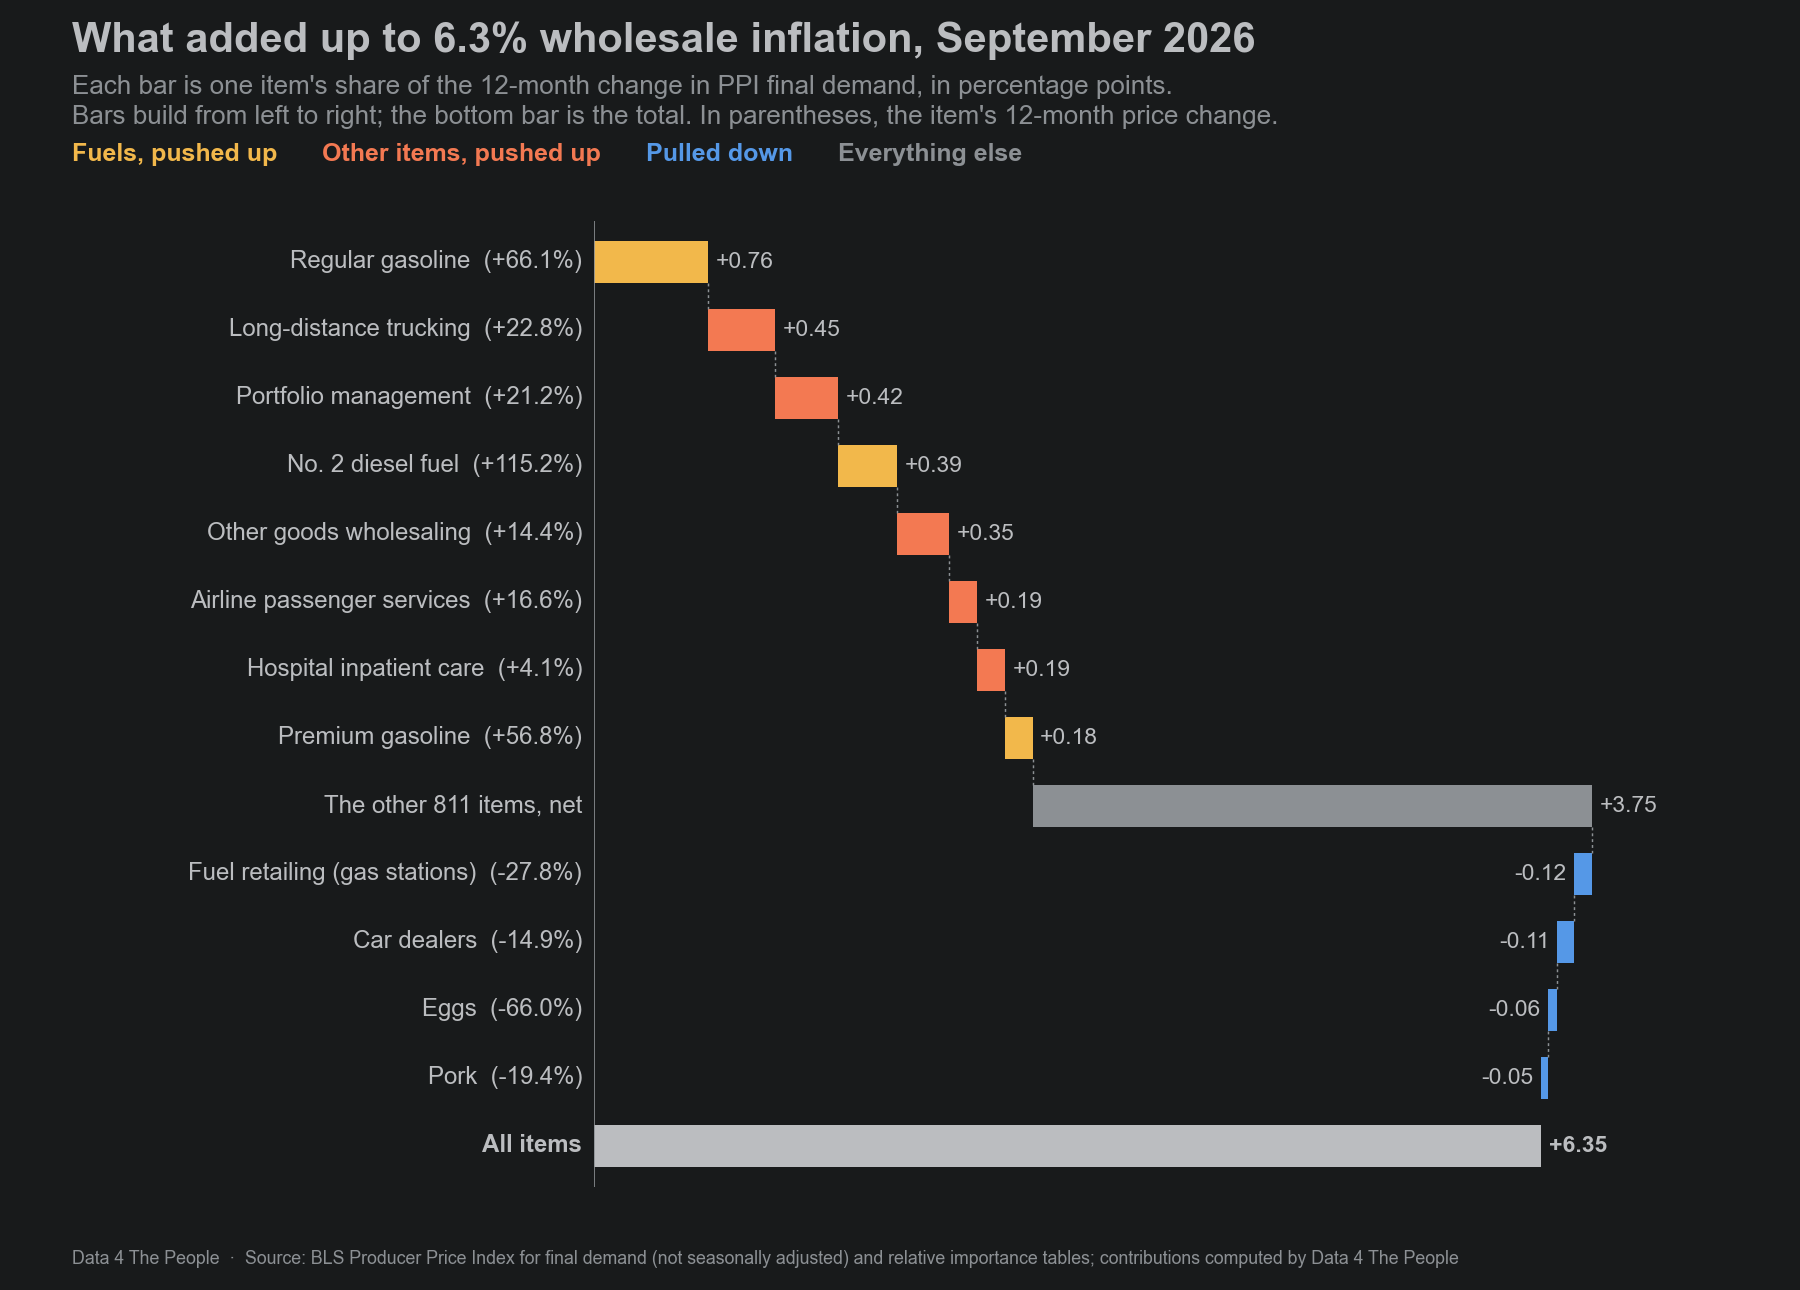
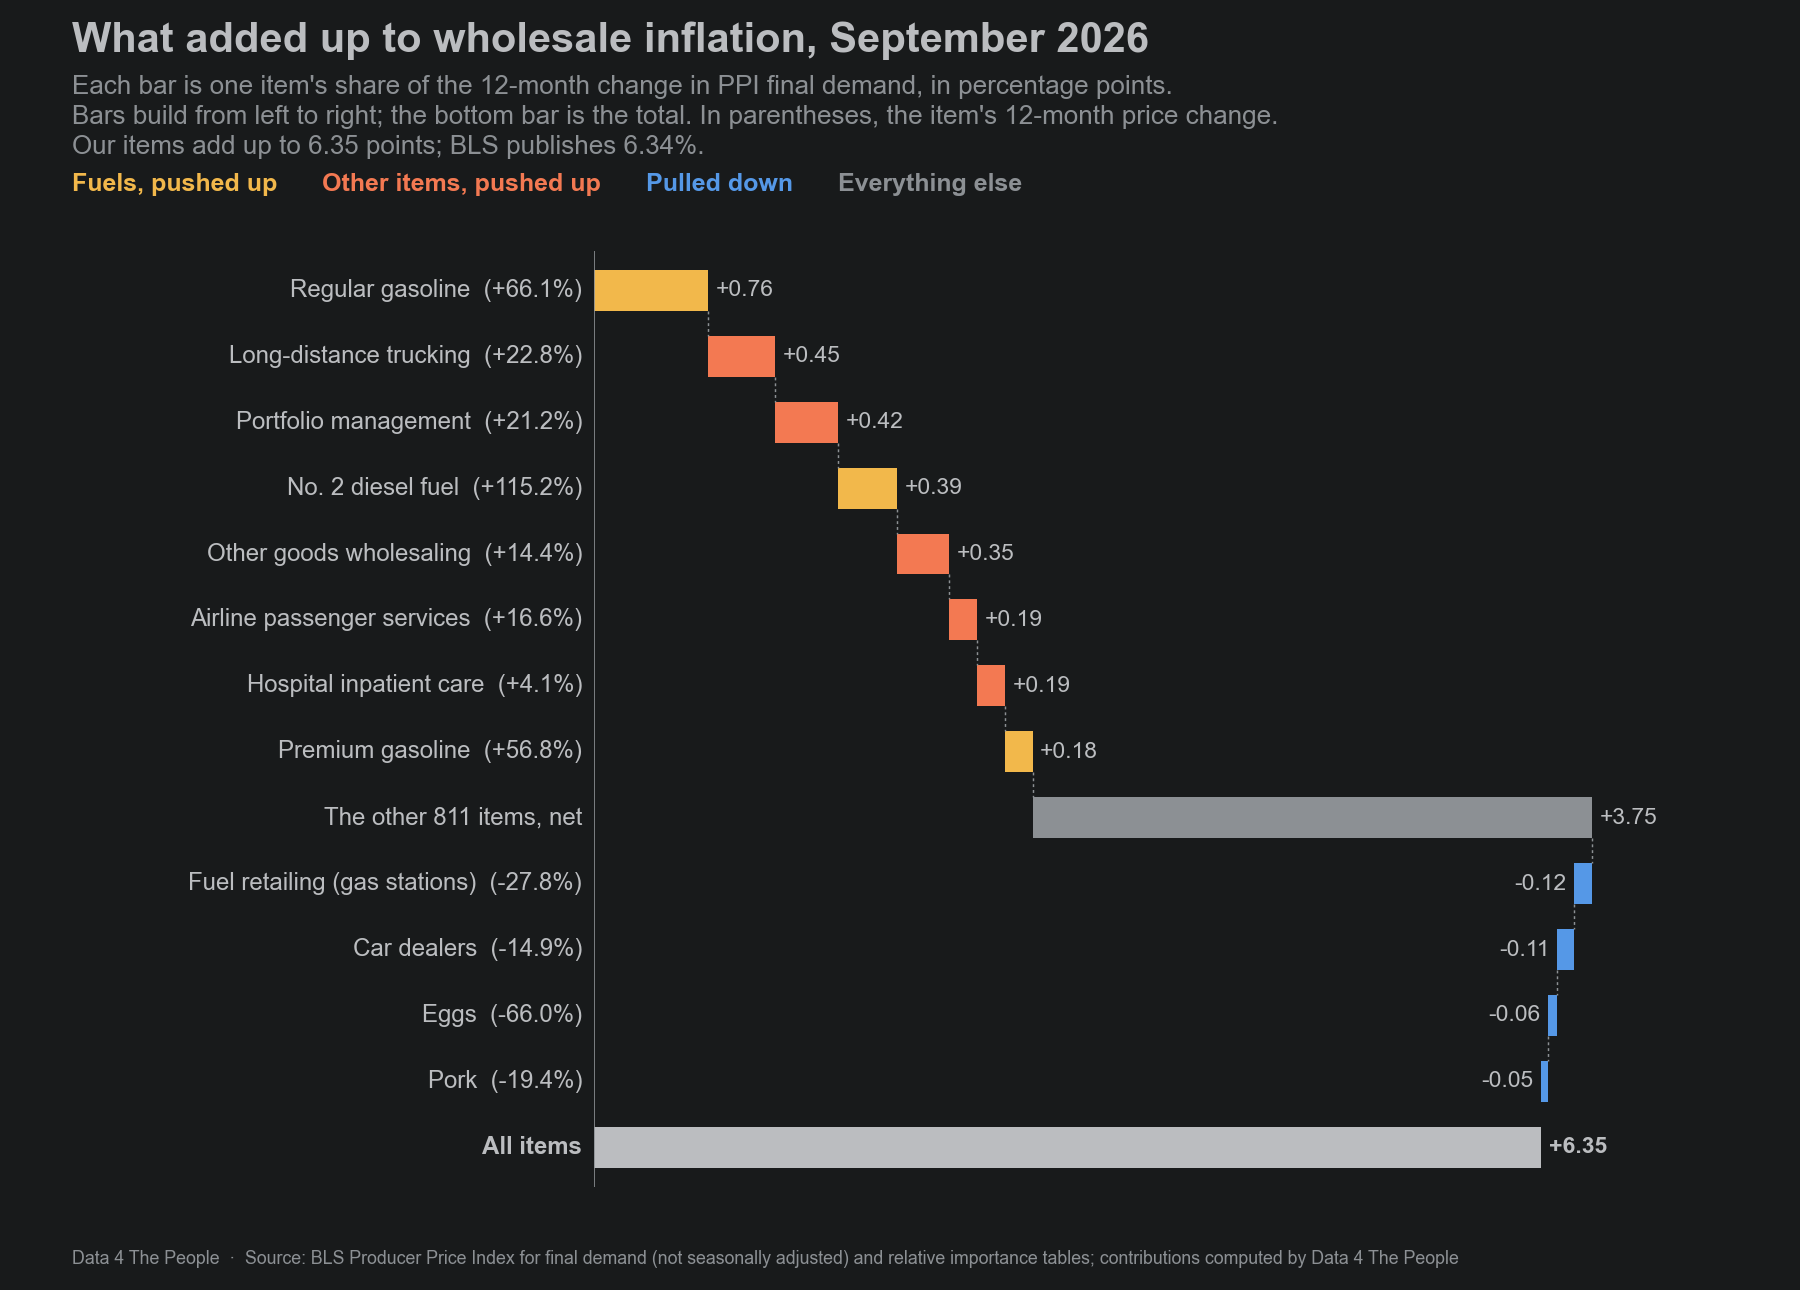
Takeaways charts: wording fixes from the independent tie-out

diff --git a/scripts/takeaways.py b/scripts/takeaways.py
@@ -180,9 +180,10 @@ def waterfall(items, summary, name):
     steps = ([(short(r["name"]), r.contrib, FUEL if fuel(r.code) else UP) for _, r in up.iterrows()]
              + [(f"The other {len(rest)} items, net", rest.contrib.sum(), MUTED)]
              + [(short(r["name"]), r.contrib, DOWN) for _, r in down.iterrows()])
-    f, top = fig(f"What added up to {pub:.1f}% wholesale inflation, {month_label(MONTH)}",
+    f, top = fig(f"What added up to wholesale inflation, {month_label(MONTH)}",
                  "Each bar is one item's share of the 12-month change in PPI final demand, in percentage points.\n"
-                 "Bars build from left to right; the bottom bar is the total. In parentheses, the item's 12-month price change.",
+                 "Bars build from left to right; the bottom bar is the total. In parentheses, the item's 12-month price change.\n"
+                 f"Our items add up to {total:.2f} points; BLS publishes {pub:.2f}%.",
                  h=8.6, legend=[("Fuels, pushed up", FUEL), ("Other items, pushed up", UP), ("Pulled down", DOWN),
                                 ("Everything else", MUTED)])
     ax = f.add_axes([0.33, 0.08, 0.61, top - 0.10])
@@ -249,7 +250,7 @@ def trade(items, name, n_up=6, n_down=4):
     sel = pd.concat([up, down.iloc[::-1]]).iloc[::-1]
     total = m.contrib.sum()
     f, top = fig(f"Store and wholesaler margins, {month_label(MONTH)}",
-                 "PPI trade prices are margins: what a store or wholesaler sells a good for, minus what it paid for it.\n"
+                 "PPI trade prices are margins: what a store or wholesaler sells a good for, minus what it costs them to buy it now.\n"
                  "Each bar is the item's share of the 12-month change in PPI final demand, in percentage points.\n"
                  f"In parentheses, the margin's 12-month change. All {len(m)} trade items together: {pts(total)} points.",
                  h=7.8, legend=[("Margins that rose", UP), ("Margins that fell", DOWN)])

diff --git a/TAKEAWAYS_TIEOUT.md b/TAKEAWAYS_TIEOUT.md
@@ -677,3 +677,18 @@ Generated by `scripts/takeaways_tieout.py`. 0 differences.
 | Portfolio management | 21.2% / 0.424 points, rank 3 of 823 |
 | Portfolio management, highest in the window | 2021-04 (33.3%) |
 | Preliminary months | 2026-06, 2026-07, 2026-08, 2026-09 |
+
+## Independent tie-out (fresh agent, 2026-10-19)
+
+A fresh agent downloaded the BLS flat files and weight files again and recomputed
+every number on the five charts with its own code from DATASETS.md. Every number
+matched to the rounding shown; no numeric differences. It confirmed "highest since
+December 2022" (6.42%) and that June to September 2026 are the only months with
+the "P" footnote. None of the 12 waterfall items or 33 trade items is filled.
+Not checked: goods / services / construction bars before 2026 (it downloaded
+only the 2024-2026 weight files); the September 2026 bars were compared by eye.
+Wording it raised, and what changed: chart 2's title said 6.3% while the bars add
+to 6.35 (title now has no number; subtitle gives 6.35 points vs 6.34% published);
+chart 4 said "minus what it paid for it" (now "minus what it costs them to buy it
+now", BLS's current acquisition price). Left as is: three-decimal labels under
+0.01 point (house rule), and short item names.
